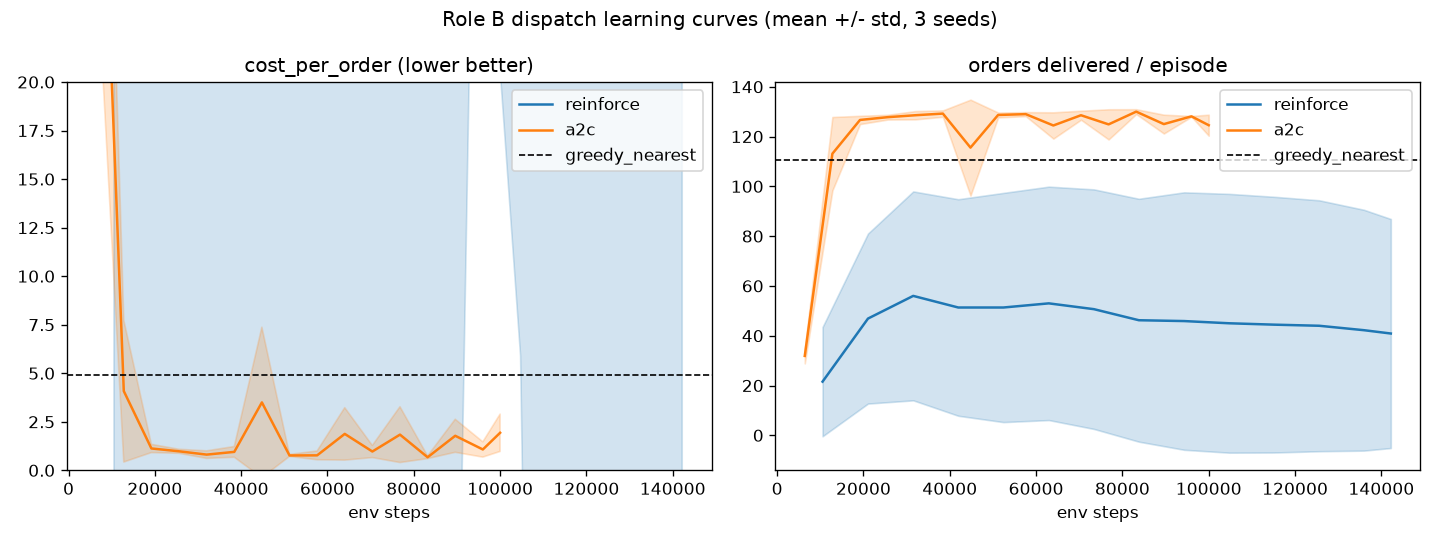
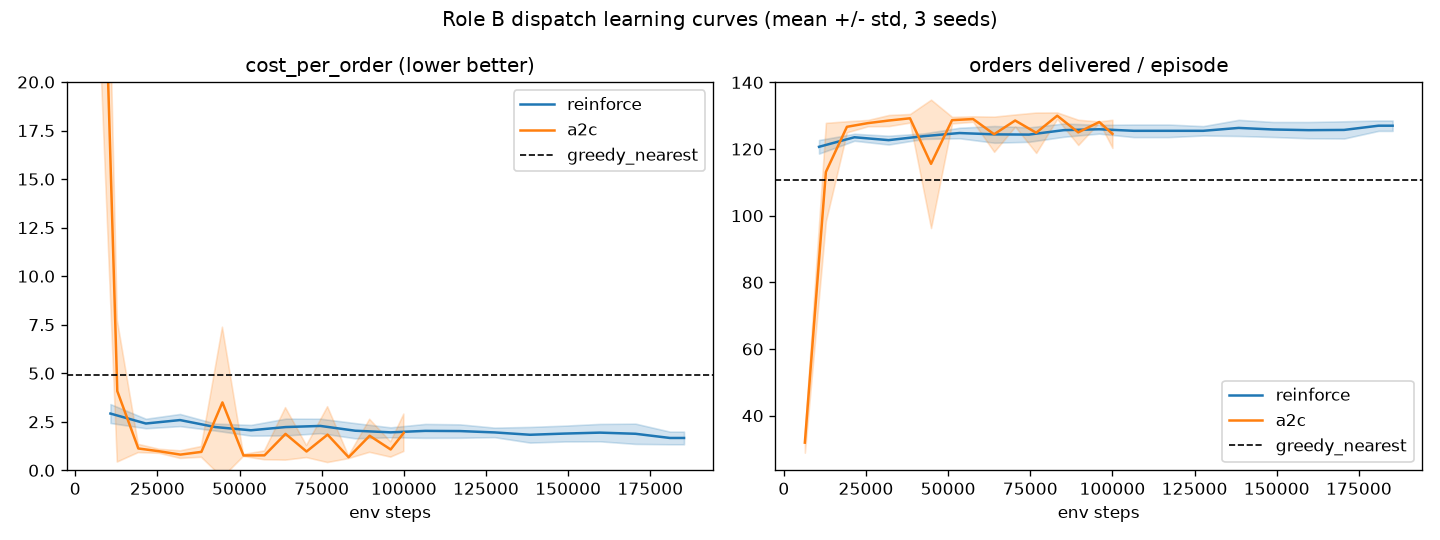
Fix REINFORCE cross-seed instability with a behavior-cloning warm-start
Plain REINFORCE beat greedy on only 1/3 seeds (48.98 +/- 50.36); the others got
stuck in a no-/half-delivery local optimum. Clone greedy_nearest into the policy
first, then refine with REINFORCE (plus lr decay and an extra critic fit). All
three seeds now beat greedy reliably: 2.65 +/- 0.09 on eval seeds 0-4.

diff --git a/code/role_b/reinforce_gae.py b/code/role_b/reinforce_gae.py
@@ -19,6 +19,7 @@ import torch
 import torch.nn.functional as F
 
 from drone_dispatch_env.env_dispatch import DroneDispatchEnv
+from drone_dispatch_env.baselines import make_baseline
 
 from .features import RoutedCache, extract_features
 from .networks import FactoredActorCritic
@@ -58,6 +59,41 @@ def _collect(env, net, cfg, device, cache, seed_rng, min_steps, reward_scale):
     return feats, actions, rewards, dones, ep_returns
 
 
+def _bc_warmup(env, net, cfg, device, cache, seed_rng, epochs, dataset_steps, lr, minibatch=2048):
+    """Behavior-clone greedy_nearest into the policy before RL.
+
+    A random policy cold-starts and can (seed-dependently) fail to ever discover
+    deliveries; cloning greedy first puts every seed in the delivering regime, so
+    REINFORCE then reliably refines the policy below greedy instead of getting
+    stuck in a no-delivery / half-delivery local optimum.
+    """
+    greedy = make_baseline("greedy_nearest", cfg)
+    feats, acts = [], []
+    while len(acts) < dataset_steps:
+        obs, _ = env.reset(seed=int(seed_rng.integers(10_000, 5_000_000)))
+        done = False
+        while not done:
+            ga = int(greedy.act(obs))
+            feats.append(extract_features(obs, cfg, cache))
+            acts.append(ga)
+            obs, _, term, trunc, _ = env.step(ga)
+            done = term or trunc
+    acts_t = torch.as_tensor(acts, dtype=torch.long, device=device)
+    opt = torch.optim.Adam(net.parameters(), lr=lr)
+    n = len(acts)
+    for _ in range(epochs):
+        perm = np.random.permutation(n)
+        for s in range(0, n, minibatch):
+            mb = perm[s:s + minibatch]
+            b = batch_features([feats[i] for i in mb], device)
+            logits, _ = net(b)
+            loss = F.cross_entropy(logits, acts_t[mb])
+            opt.zero_grad()
+            loss.backward()
+            torch.nn.utils.clip_grad_norm_(net.parameters(), 1.0)
+            opt.step()
+
+
 def train(cfg, params: dict, seed: int, log_path: str, weight_path: str) -> dict:
     p = params
     device = torch.device("cpu")
@@ -77,6 +113,12 @@ def train(cfg, params: dict, seed: int, log_path: str, weight_path: str) -> dict
     total_steps = int(p.get("total_steps", 500_000))
     eval_every = int(p.get("eval_every_updates", 10))
     val_seeds = list(p.get("val_seeds", [200, 201, 202, 203, 204]))
+    value_epochs = int(p.get("value_epochs", 1))   # extra critic fits/update (better baseline)
+    lr_final_frac = float(p.get("lr_final_frac", 1.0))         # linear lr decay to lr*frac (1.0=off)
+    ent_coef_final = float(p.get("ent_coef_final", ent_coef))  # entropy-coef schedule endpoint
+    bc_warmup_updates = int(p.get("bc_warmup_updates", 0))     # clone greedy before RL (0=off)
+    bc_lr = float(p.get("bc_lr", 1e-3))                        # supervised lr for the clone phase
+    bc_dataset_steps = int(p.get("bc_dataset_steps", 40000))   # greedy transitions collected once
 
     os.makedirs(os.path.dirname(weight_path) or ".", exist_ok=True)
     env = DroneDispatchEnv(cfg)
@@ -90,7 +132,15 @@ def train(cfg, params: dict, seed: int, log_path: str, weight_path: str) -> dict
     global_steps = 0
     best_cost = float("inf")
 
+    if bc_warmup_updates > 0:
+        _bc_warmup(env, net, cfg, device, cache, seed_rng, bc_warmup_updates, bc_dataset_steps, bc_lr)
+
     for update in range(1, n_updates + 1):
+        frac = (update - 1) / max(1, n_updates - 1)              # 0 -> 1 across training
+        cur_lr = lr * (1.0 + frac * (lr_final_frac - 1.0))       # linear lr decay (anti-drift)
+        for g in opt.param_groups:
+            g["lr"] = cur_lr
+        cur_ent = ent_coef + frac * (ent_coef_final - ent_coef)  # entropy schedule (explore->exploit)
         feats, actions, rewards, dones, ep_returns = _collect(
             env, net, cfg, device, cache, seed_rng, steps_per_update, reward_scale)
         global_steps += len(actions)
@@ -111,12 +161,22 @@ def train(cfg, params: dict, seed: int, log_path: str, weight_path: str) -> dict
 
         policy_loss = -(logp * adv_t).mean()
         value_loss = F.smooth_l1_loss(values, ret_t)
-        loss = policy_loss + vf_coef * value_loss - ent_coef * entropy
+        loss = policy_loss + vf_coef * value_loss - cur_ent * entropy
 
         opt.zero_grad()
         loss.backward()
         torch.nn.utils.clip_grad_norm_(net.parameters(), max_grad_norm)
         opt.step()
+
+        # Extra critic-only fits: a better value baseline lowers advantage variance
+        # (the actor heads are separate params, so the policy is unchanged here).
+        for _ in range(value_epochs - 1):
+            _, v_extra = net(b)
+            v_loss_extra = F.smooth_l1_loss(v_extra, ret_t)
+            opt.zero_grad()
+            (vf_coef * v_loss_extra).backward()
+            torch.nn.utils.clip_grad_norm_(net.parameters(), max_grad_norm)
+            opt.step()
 
         if update % eval_every == 0 or update == n_updates:
             agent = PolicyGradientAgent(net, cfg, device, deterministic=True)